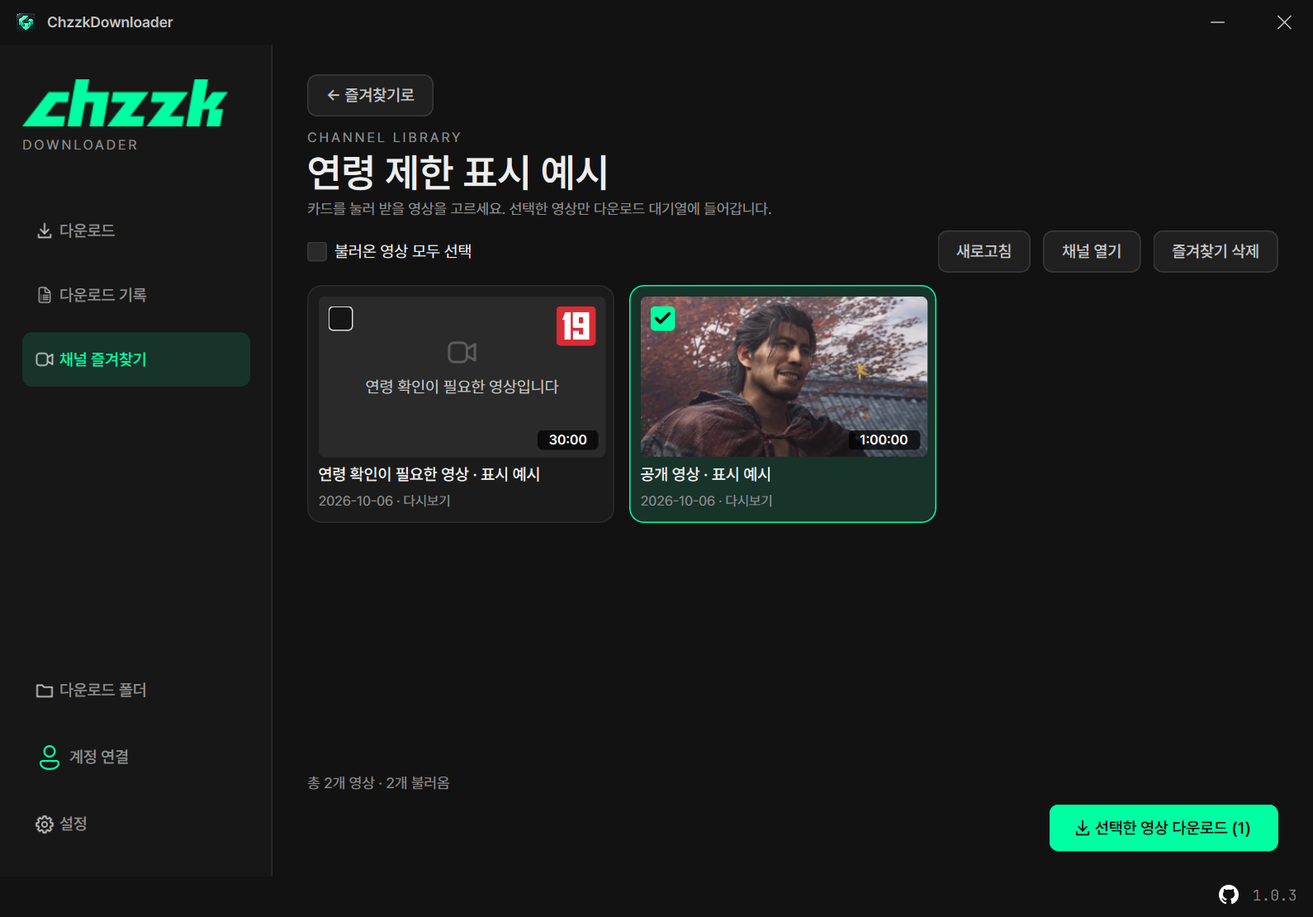
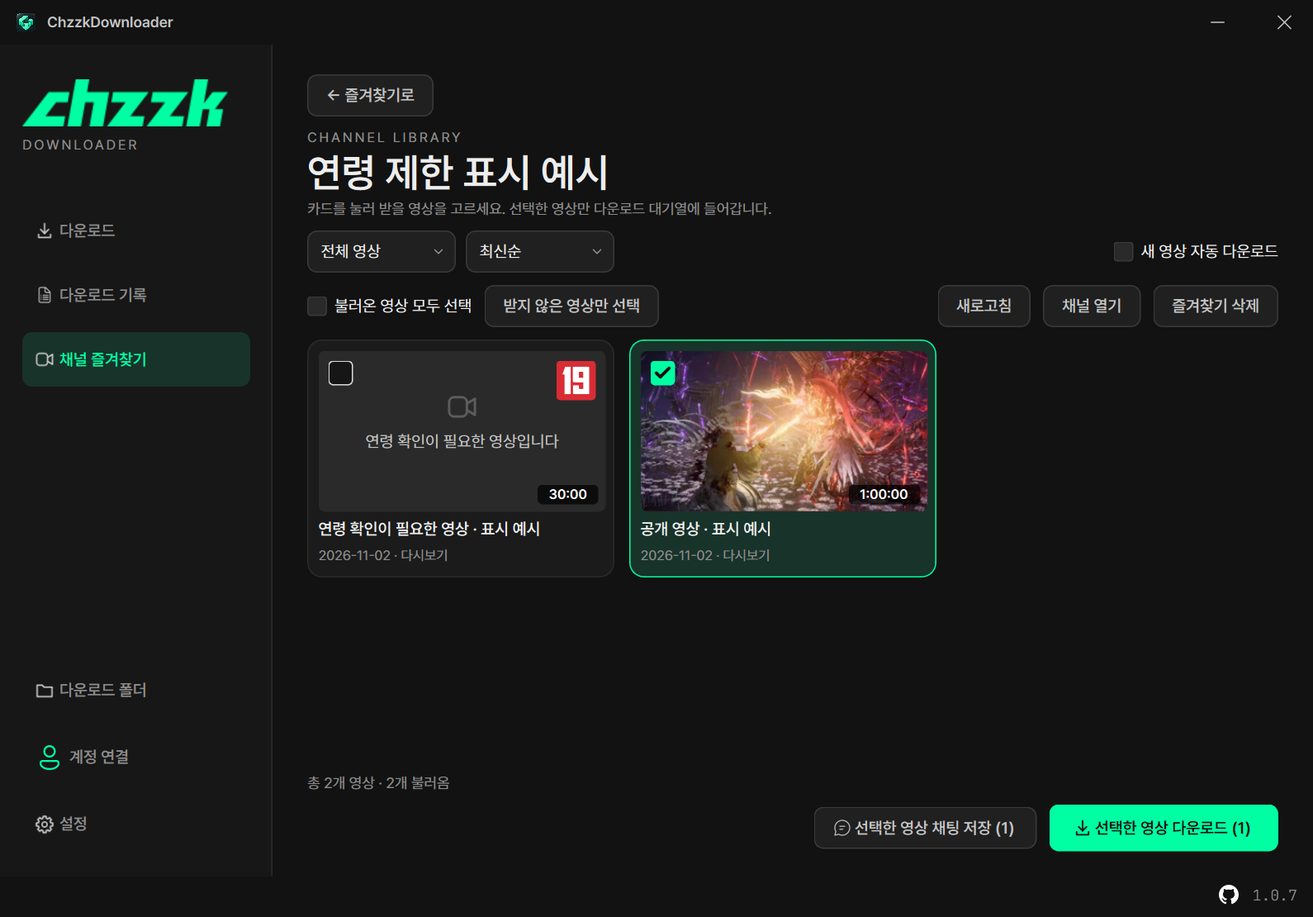
docs: 1.0.7 기능 안내와 스크린샷 최신화

Changed region(s): [[0.2465, 0.245, 0.7704, 0.6432], [0.8013, 0.245, 0.9862, 0.3676], [0.6164, 0.8883, 0.7704, 0.9189]]

diff --git a/docs/index.html b/docs/index.html
@@ -4,7 +4,7 @@
   <meta charset="utf-8">
   <meta name="viewport" content="width=device-width, initial-scale=1">
   <meta name="theme-color" content="#101412">
-  <meta name="description" content="ChzzkDownloader — 치지직 VOD와 클립을 내 폴더에. 치지직·YouTube·TVer 등 영상 주소 분석, 쿠키로 치지직 계정 연결과 팔로잉 가져오기, 대기 목록 복원, 채널 즐겨찾기와 다운로드 기록을 제공하는 Windows 다운로더.">
+  <meta name="description" content="ChzzkDownloader 1.0.7 — 여러 사이트의 영상 다운로드·이어받기, 라이브 녹화, 치지직 다시보기 채팅 저장, 구간 다운로드와 채널 새 영상 알림을 제공하는 Windows 다운로더.">
   <title>ChzzkDownloader — 다시 보고 싶은 순간을, 내 폴더에</title>
   <link rel="icon" href="img/logo.svg" type="image/svg+xml">
   <link rel="stylesheet" href="style.css">
@@ -26,14 +26,14 @@
         <p class="lead">긴 다시보기도, 짧은 클립도.<br>링크를 붙여넣으면 나만의 영상 라이브러리가 시작됩니다.</p>
         <div class="hero-actions"><a class="button primary" href="https://github.com/deuxdoom/ChzzkDownloader/releases/latest" data-download><span class="github-icon" aria-hidden="true"></span>다운로드(.zip) <span aria-hidden="true">↓</span></a><a class="button secondary" href="#preview">화면 살펴보기 <span aria-hidden="true">↘</span></a></div>
         <p class="availability">Windows 데스크톱 · 1.0.7 · 폴더형 포터블 앱</p>
-        <p class="release-note"><code>ChzzkDownloader_v107.zip</code> · 2026-11-02 · 방송이 끊겨 둘로 나뉜 다시보기를 VOD 변환 전에 받을 때 생기던 오류를 수정했습니다.</p>
+        <p class="release-note"><code>ChzzkDownloader_v107.zip</code> · 2026-11-02 · 이어받기·라이브 녹화·다시보기 채팅 저장·구간 다운로드, 파일 이름·속도 제한과 채널 새 영상 확인을 추가했습니다. <a href="https://github.com/deuxdoom/ChzzkDownloader/releases/tag/1.0.7">1.0.7 새 소식 ↗</a></p>
       </div>
       <div class="hero-art" aria-hidden="true"><div class="orbit orbit-one"></div><div class="orbit orbit-two"></div><img src="img/logo.svg" width="256" height="256" alt=""><span class="art-label">KEEP THE MOMENT.</span></div>
     </section>
 
     <section class="guide wrap" id="start" data-chapter aria-labelledby="guide-title">
       <div class="guide-heading"><p class="eyebrow">THREE STEPS. YOUR LIBRARY.</p><h2 id="guide-title">시작하기</h2></div>
-      <ol class="steps"><li><span class="step-number">1</span><div><h3>프로그램 열기</h3><p><code>ChzzkDownloader_v107.zip</code>을 풀고 폴더 구조를 유지한 채 <code>ChzzkDownloader.exe</code>를 실행합니다. <code>lib</code>·<code>bin</code> 폴더는 EXE와 함께 두세요.</p></div></li><li><span class="step-number">2</span><div><h3>저장 위치와 옵션 고르기</h3><p>사이드바 맨 아래 ‘설정’에서 저장 위치·화질·인코딩·동시 다운로드 수를 정합니다. 저장 위치는 다음 실행에도 유지됩니다. 필요하면 같은 화면에서 치지직 계정도 연결하세요.</p></div></li><li><span class="step-number">3</span><div><h3>주소 붙여넣고 다운로드</h3><p>영상 주소를 붙여넣고 ‘다운로드’를 누르세요. 여러 영상은 ‘다중 다운로드’ 창에 한 줄씩 넣습니다. 이번 실행의 완료 영상은 다운로드 목록에서 바로 재생할 수 있습니다.</p></div></li></ol>
+      <ol class="steps"><li><span class="step-number">1</span><div><h3>프로그램 열기</h3><p><code>ChzzkDownloader_v107.zip</code>을 풀고 폴더 구조를 유지한 채 <code>ChzzkDownloader.exe</code>를 실행합니다. <code>lib</code>·<code>bin</code> 폴더는 EXE와 함께 두세요.</p></div></li><li><span class="step-number">2</span><div><h3>저장 위치와 옵션 고르기</h3><p>사이드바 맨 아래 ‘설정’에서 저장 위치·화질·인코딩·파일 이름·채널별 폴더·속도 제한을 정합니다. 저장 위치는 다음 실행에도 유지됩니다. 필요하면 같은 화면에서 치지직 계정도 연결하세요.</p></div></li><li><span class="step-number">3</span><div><h3>주소 붙여넣고 다운로드</h3><p>영상 주소를 붙여넣고 ‘다운로드’를 누르세요. 여러 영상은 ‘다중 다운로드’ 창에 한 줄씩 넣습니다. 필요하면 ‘받을 내용’에서 영상·채팅만·영상 + 채팅을 고르거나 ‘구간만 받기’로 시작·끝을 정하세요.</p></div></li></ol>
     </section>
 
     <section class="story" id="features" data-chapter aria-label="기능 스크롤 소개">
@@ -62,64 +62,85 @@
       <div class="feature-grid">
         <article class="feature"><span class="feature-no">01 / INPUT</span><h3>링크만 있으면 준비 끝.</h3><p>치지직 VOD·클립은 물론 YouTube·인스타그램·TVer 등 어떤 사이트의 영상 주소든 붙여넣으세요. ‘다중 다운로드’ 창에 주소를 한 줄씩 넣어 한 번에 추가하거나, 브라우저에서 끌어놓을 수 있습니다.</p><span class="pill">ANY VIDEO URL</span></article>
         <article class="feature"><span class="feature-no">02 / QUALITY</span><h3>내가 고른 화질과 형식.</h3><p>최고 화질 또는 원하는 해상도 상한을 선택하세요. MP4로 저장합니다. 원본 유지 또는 CPU/NVIDIA NVENC 인코딩, H.264(AVC)/H.265(HEVC)를 선택하세요.</p><span class="pill">MP4 · AVC / HEVC</span></article>
-        <article class="feature"><span class="feature-no">03 / SPEED</span><h3>긴 영상도 차근차근.</h3><p>최대 4개 영상과 영상당 최대 16개 조각을 동시에 다운로드합니다. GB·MB 단위의 전송량과 진행률·속도·남은 시간을 카드에서 확인하세요. 숫자에는 JetBrains Mono를 적용했습니다.</p><span class="pill">PARALLEL DOWNLOADS</span></article>
+        <article class="feature"><span class="feature-no">03 / SPEED</span><h3>인터넷 속도도 나눠 쓰기.</h3><p>최대 4개 영상·영상당 최대 16개 조각을 동시에 받으며, 영상 한 개당 속도 상한을 1~50 MB/s로 정할 수 있습니다. 여러 영상의 합계는 동시 영상 수만큼 늘어날 수 있고, 라이브·구간 다운로드에는 제한이 적용되지 않을 수 있습니다.</p><span class="pill">PARALLEL · RATE LIMIT</span></article>
         <article class="feature"><span class="feature-no">04 / HISTORY</span><h3>완료 영상은 바로 재생.</h3><p>이번 실행의 완료 영상은 다운로드 목록에서 재생하거나 더블클릭하세요. ‘완료 항목 정리’로 숨겨도 영상과 기록은 남습니다. 이전 실행의 작업·실패·취소 항목은 다운로드 기록에서 확인합니다.</p><span class="pill">DOWNLOAD HISTORY</span></article>
-        <article class="feature"><span class="feature-no">05 / CONTROL</span><h3>필요할 때 잠깐 쉬어가기.</h3><p>대기열을 멈추면 진행 중인 영상은 계속 받고 다음 작업의 시작을 기다립니다. 취소·대기·종료 중단 목록은 다시 실행해도 대기로 남고, ‘대기열 계속’을 누르면 이어집니다. 필요 없는 대기 항목은 우클릭 → ‘목록에서 삭제’로 지우고, 실패한 작업은 한 번에 재시도하세요.</p><span class="pill">QUEUE CONTROL</span></article>
-        <article class="feature"><span class="feature-no">06 / YOUR FILES</span><h3>영상은 내 폴더에 바로.</h3><p>영상 제목 그대로 저장하고 같은 이름이 있으면 번호를 붙입니다. 목록 정리와 다운로드 취소에도 이미 완성한 파일은 보존됩니다.</p><span class="pill">LOCAL FIRST</span></article>
+        <article class="feature"><span class="feature-no">05 / RESUME</span><h3>중단한 부분부터 이어받기.</h3><p>취소·실패한 영상은 받은 부분을 보관하고 재시도·같은 주소 추가·재실행 후 대기열 재개 시 이어받습니다. 일시적인 연결 오류는 두 번까지 자동 재시도합니다. 복원된 대기열은 ‘대기열 계속’을 누를 때 시작하며, 라이브·구간 다운로드는 이어받지 않습니다.</p><span class="pill">RESUME · AUTO RETRY</span></article>
+        <article class="feature"><span class="feature-no">06 / YOUR FILES</span><h3>파일 이름도, 폴더도 원하는 대로.</h3><p>제목에 게시 날짜·채널을 넣는 네 가지 파일 이름 규칙과 채널별 폴더를 선택하세요. 날짜는 PC 현지 날짜 기준이며, 같은 이름에는 번호를 붙입니다. 새로 대기열에 넣는 작업부터 적용됩니다.</p><span class="pill">FILE NAMES · CHANNEL FOLDERS</span></article>
         <article class="feature"><span class="feature-no">07 / BACKGROUND</span><h3>트레이에서 이어가기.</h3><p>창을 숨겨도 다운로드는 계속됩니다. 트레이 메뉴에서 대기열을 멈추거나 재개하고, 완료 알림으로 다시 돌아오세요.</p><span class="pill">SYSTEM TRAY</span></article>
         <article class="feature"><span class="feature-no">08 / UPDATES</span><h3>새 버전으로 자연스럽게.</h3><p>새 버전의 추가·변경·수정 내역을 먼저 보여 줍니다. ‘지금 업데이트’를 선택하면 다운로드가 끝난 뒤 같은 프로그램의 독립 업데이트 모드가 배포 파일을 검증하고 프로그램을 교체합니다.</p><span class="pill">INDEPENDENT UPDATER</span></article>
         <article class="feature"><span class="feature-no">09 / ENCODING</span><h3>빠르게, 또는 가볍게.</h3><p>원본 유지가 기본입니다. 변환이 필요할 때 CPU/NVENC와 AVC/HEVC를 선택하세요. 변환 실패·취소 시 다운로드한 원본은 보존합니다.</p><span class="pill">AVC / HEVC</span></article>
-        <article class="feature"><span class="feature-no">10 / FAVORITES</span><h3>즐겨찾는 채널에서 골라 받기.</h3><p>채널명이나 주소로 검색해 즐겨찾기에 저장하세요. 채널 카드를 누르면 VOD를 썸네일·제목·날짜로 확인하고 원하는 영상만 선택해 받을 수 있습니다. 치지직 계정을 연결하면 팔로잉 채널도 자동으로 추가됩니다.</p><span class="pill">CHANNEL FAVORITES</span></article>
+        <article class="feature"><span class="feature-no">10 / FAVORITES</span><h3>받은 영상과 채팅을 한눈에.</h3><p>전체 영상·다시보기·업로드·클립을 골라 최신순·인기순으로 정렬하세요. ‘받음’·‘채팅 받음’·‘영상·채팅 받음’을 구분하고, ‘받지 않은 영상만 선택’으로 아직 안 받은 영상을 고를 수 있습니다.</p><span class="pill">CHANNEL VIEWS · SAVED BADGES</span></article>
         <article class="feature"><span class="feature-no">11 / TOOLS</span><h3>영상 도구도 간편하게.</h3><p>첫 실행에 FFmpeg·ffprobe와 yt-dlp nightly를 받고, 시작할 때마다 확인해 없거나 손상되었으면 자동으로 다시 준비합니다. 작업이 끝난 뒤 설정의 ‘도구 업데이트’를 누르면 바뀌었거나 손상된 도구만 검증해 교체합니다. 이미 최신인 도구는 다시 받지 않습니다.</p><span class="pill">FFMPEG · YT-DLP NIGHTLY</span></article>
-        <article class="feature"><span class="feature-no">12 / DUPLICATES</span><h3>같은 영상은 한 번 더 확인.</h3><p>완료 기록과 같은 영상 주소를 다시 넣으면 중복 다운로드 안내를 보여 줍니다. ‘다시 다운로드’를 선택한 영상만 새로 추가합니다.</p><span class="pill">DOWNLOAD CONFIRMATION</span></article>
+        <article class="feature"><span class="feature-no">12 / DUPLICATES</span><h3>주소가 달라도 같은 영상이면.</h3><p>공유 주소·모바일 주소처럼 형태가 달라도 같은 영상이면 다시 받을지 확인합니다. 기록 화면의 최근 500개 밖에 있는 영상도 기억하며, 대기·진행 중인 영상은 중복 추가하지 않습니다.</p><span class="pill">VIDEO IDENTITY CHECK</span></article>
         <article class="feature"><span class="feature-no">13 / LOGS</span><h3>필요한 로그만 펼쳐 보기.</h3><p>‘완료 항목 정리’ 오른쪽의 로그 버튼으로 열고 닫습니다. 카드 선택이나 작업 필터로 원하는 로그만 확인하며, 스크롤바 때문에 버튼과 카드가 좌우로 밀리지 않습니다.</p><span class="pill">JOB LOG FILTER</span></article>
         <article class="feature"><span class="feature-no">14 / ACCOUNT</span><h3>치지직 계정은 쿠키로 연결.</h3><p>평소 브라우저에서 내보낸 cookies.txt를 가져오면 아이디·비밀번호 입력 없이 계정을 연결합니다. 로그인 쿠키 두 개만 내 PC에 암호화 저장하고 다시 실행해도 유지합니다. 본인·성인 인증된 계정이라면 그 계정의 시청 권한으로 19세 영상도 받을 수 있습니다.</p><span class="pill">COOKIES.TXT LOGIN</span></article>
         <article class="feature"><span class="feature-no">15 / PROFILES</span><h3>여러 계정도 프로필로.</h3><p>다른 계정의 쿠키를 가져오면 프로필로 추가합니다. 설정 위의 프로필 사진·이름에서 계정을 전환하고, 팔로잉 채널은 즐겨찾기에 자동으로 추가합니다. 즐겨찾기와 순서는 계정마다 따로 유지합니다.</p><span class="pill">MULTI PROFILES</span></article>
+        <article class="feature"><span class="feature-no">16 / CHAT</span><h3>채팅도 함께 보관하기.</h3><p>치지직 다시보기의 채팅을 오프라인 HTML 한 파일로 저장하세요. 닉네임을 누르면 그 사용자의 채팅만 보고, 검색·사용자별 요약에서 구독·후원·가림 상태를 확인할 수 있습니다. 닉네임을 바꿔도 같은 사용자 ID로 모입니다.</p><span class="pill">VOD CHAT · OFFLINE HTML</span></article>
+        <article class="feature"><span class="feature-no">17 / SECTIONS</span><h3>긴 영상에서 필요한 구간만.</h3><p>주소를 넣기 전에 ‘구간만 받기’를 켜고 시작·끝을 입력하세요. 끝을 비우면 영상 끝까지 받습니다. 재인코딩 없이 잘라 몇 초 차이가 날 수 있으며, 채널 화면의 일괄 선택에는 적용되지 않습니다.</p><span class="pill">START · END</span></article>
+        <article class="feature"><span class="feature-no">18 / LIVE</span><h3>라이브는 녹화하고, 중지하면 저장.</h3><p>라이브 방송 주소를 넣어 녹화하세요. 경과 시간·녹화 크기·남은 공간으로 녹화 가능한 시간을 표시하고, 중지·연결 끊김·남은 공간 1GB 미만일 때 지금까지의 녹화를 저장합니다.</p><span class="pill">LIVE RECORDING</span></article>
+        <article class="feature"><span class="feature-no">19 / NEW VIDEOS</span><h3>즐겨찾는 채널의 새 소식.</h3><p>설정에서 새 영상 확인을 켜면 30분마다 확인해 배지와 트레이로 알립니다. ‘새 영상 자동 다운로드’를 켠 채널은 이미 받은 영상을 건너뛰고 새 영상만 대기열에 넣습니다. 처음 확인한 기존 영상은 알리지 않습니다.</p><span class="pill">NOTIFY · AUTO DOWNLOAD</span></article>
+        <article class="feature"><span class="feature-no">20 / SPACE &amp; ERRORS</span><h3>받기 전에 공간부터.</h3><p>영상 크기를 알 수 있으면 동시에 받는 영상이 쓸 공간까지 계산해 부족할 때 전송 전에 알려 줍니다. 실패하면 원인과 다음 조치를 한국어로 안내하고, 카드의 상태 문구에 마우스를 올리면 전체 원문도 확인할 수 있습니다.</p><span class="pill">SPACE CHECK · ERROR GUIDANCE</span></article>
+        <article class="feature"><span class="feature-no">21 / CACHE</span><h3>미리보기 캐시도 가볍게.</h3><p>설정에서 썸네일 캐시 사용량을 확인하고 비울 수 있습니다. 프로그램을 시작하면 기록에 더 이상 없는 영상의 캐시는 자동으로 정리하며, 저장한 영상과 다운로드 기록은 유지합니다.</p><span class="pill">THUMBNAIL CACHE</span></article>
       </div>
     </section>
 
     <section class="preview wrap" id="preview" data-chapter aria-labelledby="preview-title">
-      <div class="preview-top"><div><p class="eyebrow">A CALMER WAY TO DOWNLOAD</p><h2 id="preview-title">필요한 것만, 한눈에.</h2></div><span class="version-tag">ChzzkDownloader 1.0.3</span></div>
+      <div class="preview-top"><div><p class="eyebrow">A CALMER WAY TO DOWNLOAD</p><h2 id="preview-title">필요한 것만, 한눈에.</h2></div><span class="version-tag">ChzzkDownloader 1.0.7</span></div>
       <div class="screen"><img src="img/app-download.png" width="1590" height="1110" alt="ChzzkDownloader의 다운로드 화면. 왼쪽 사이드바에 다운로드·다운로드 기록·채널 즐겨찾기와 맨 아래 다운로드 폴더·계정 연결·설정, 오른쪽에 주소 입력·다중 다운로드 버튼과 위에서부터 대기·다운로드 중·완료 영상 카드가 보입니다. 완료 카드는 재생할 수 있습니다." fetchpriority="high"></div>
-      <p class="caption">실제 1.0.3 앱 인터페이스 · 영상과 진행 상태는 소개용 예시입니다. 메인 창 오른쪽 아래의 흰색 GitHub 아이콘만 저장소 링크이며, 버전 숫자는 일반 표시입니다.</p>
+      <p class="caption">실제 1.0.7 배포 EXE 화면 · 영상 정보는 현재 공개 목록에서 가져왔고, 다운로드·저장 상태는 소개용 예시입니다. 메인 창 오른쪽 아래의 흰색 GitHub 아이콘만 저장소 링크이며, 버전 숫자는 일반 표시입니다.</p>
+    </section>
+
+    <section class="settings wrap" aria-labelledby="section-title">
+      <div class="settings-copy"><p class="eyebrow">VIDEO. CHAT. JUST THE PART YOU NEED.</p><h2 id="section-title">영상도, 채팅도.<br>필요한 방식으로.</h2><p>다운로드 화면의 ‘받을 내용’에서 영상·채팅만·영상 + 채팅을 선택하세요. 치지직 다시보기 채팅은 오프라인 HTML 한 파일로 저장되며 닉네임을 누르면 그 사용자의 채팅만 볼 수 있습니다. 닉네임 옆 ↗는 채널을 열고, 검색창에는 채널 주소나 ID도 넣을 수 있습니다.</p><p>‘구간만 받기’를 켜고 시작·끝을 입력하면 주소 입력·다중 다운로드에 적용됩니다. 한 번 추가하면 체크가 풀리고, 끝을 비우면 영상 끝까지 받습니다. 영상 + 채팅에서는 영상만 잘라 받고 채팅은 전체를 저장합니다.</p><p class="muted">실제 1.0.7 화면 · 작업과 진행 상태는 소개용 예시입니다. 채팅은 치지직 다시보기만 지원하며 라이브·클립·다른 사이트의 채팅은 받을 수 없습니다. 구간은 재인코딩 없이 잘라 몇 초 차이가 날 수 있습니다.</p></div>
+      <div class="settings-screen"><img src="img/app-input.png" width="1590" height="1110" loading="lazy" alt="구간만 받기에서 1:00:00~1:30:00과 받을 내용에서 영상 + 채팅을 선택한 1.0.7 화면."></div>
+    </section>
+
+    <section class="settings wrap" aria-labelledby="live-title">
+      <div class="settings-copy"><p class="eyebrow">RECORD NOW. KEEP IT LATER.</p><h2 id="live-title">라이브를 녹화하고,<br>중지하면 저장.</h2><p>방송 주소를 넣으면 그 시점부터 녹화합니다. 동시 다운로드 수에 포함되지 않아 다른 영상을 함께 받을 수 있고, 카드에 경과 시간·녹화 크기와 남은 공간으로 더 녹화할 수 있는 시간을 표시합니다. 중지하거나 연결이 끊기면 지금까지 녹화한 부분을 MP4로 저장합니다.</p><p class="muted">실제 1.0.7 화면 · 녹화 상태·용량·남은 시간은 소개용 예시입니다. 1080p60 기준 시간당 약 3.8GB, 10시간 약 38GB가 필요하며 화질에 따라 달라집니다. MP4 정리에는 녹화 크기만큼 여유 공간이 더 필요합니다. 남은 공간이 1GB 아래로 줄면 멈추고 저장하며, 정리할 공간이 없거나 MP4 변환에 실패하면 TS로 보존합니다. 재실행 복원·이어받기는 하지 않습니다.</p></div>
+      <div class="settings-screen"><img src="img/app-live.png" width="1590" height="1110" loading="lazy" alt="라이브 녹화 중 경과 시간·녹화 용량·남은 공간으로 더 녹화할 수 있는 시간을 보여 주는 예시."></div>
+    </section>
+
+    <section class="settings wrap" aria-labelledby="watch-title">
+      <div class="settings-copy"><p class="eyebrow">NEW VIDEOS. LESS CHECKING.</p><h2 id="watch-title">새 영상은 알려 주고,<br>캐시는 가볍게.</h2><p>‘설정 → 프로그램 동작 → 즐겨찾기 채널의 새 영상을 30분마다 확인’을 켜면 새 영상 개수와 트레이 알림을 받을 수 있습니다. 자동으로 받을 채널은 채널 화면의 ‘새 영상 자동 다운로드’도 켜세요. 이미 받은 영상은 건너뛰고 새 영상만 대기열에 추가합니다.</p><p>같은 설정 카드에서 썸네일 캐시 사용량을 확인하거나 ‘캐시 비우기’를 누를 수 있습니다. 기록과 영상 파일은 유지되며, 시작할 때 기록에 더 이상 없는 영상의 캐시도 자동 정리합니다.</p><p class="muted">새 영상 확인은 기본 꺼짐입니다. 처음 확인한 기존 영상은 알리거나 자동으로 받지 않습니다. 설정을 켜면 시작 1분 뒤부터 확인하고 이후 30분마다 확인합니다.</p></div>
+      <div class="settings-screen"><img src="img/app-settings-behavior.png" width="1590" height="1110" loading="lazy" alt="즐겨찾기 채널 새 영상 확인과 썸네일 캐시 사용량·캐시 비우기, 프로그램·도구 업데이트 설정."></div>
     </section>
 
     <section class="settings wrap" id="multi-download" aria-labelledby="multi-title">
-      <div class="settings-copy"><p class="eyebrow">MORE LINKS. ONE LIST.</p><h2 id="multi-title">여러 영상도,<br>한 줄씩 간단하게.</h2><p>다운로드 화면의 ‘다중 다운로드’를 누르고 주소를 한 줄에 하나씩 넣으세요. 주소 개수를 확인한 뒤 ‘다운로드 (개수)’를 누르면 입력한 순서대로 목록에 추가됩니다.</p><p class="muted">입력 안의 중복 주소와 주소가 아닌 줄은 건너뜁니다. 완료 기록과 같은 영상은 다시 다운로드할지 먼저 확인합니다. TVer는 일본 VPN에 연결한 뒤 받아야 하며 다운로드가 끝날 때까지 연결을 유지하세요.</p></div>
+      <div class="settings-copy"><p class="eyebrow">MORE LINKS. ONE LIST.</p><h2 id="multi-title">여러 영상도,<br>한 줄씩 간단하게.</h2><p>다운로드 화면의 ‘다중 다운로드’를 누르고 주소를 한 줄에 하나씩 넣으세요. 주소 개수를 확인한 뒤 ‘다운로드 (개수)’를 누르면 입력한 순서대로 목록에 추가됩니다.</p><p class="muted">입력 안의 중복 주소와 주소가 아닌 줄은 건너뜁니다. 이미 받은 영상은 주소 형태가 달라도 다시 다운로드할지 먼저 확인합니다. TVer는 일본 VPN에 연결한 뒤 받아야 하며 다운로드가 끝날 때까지 연결을 유지하세요.</p></div>
       <div class="settings-screen"><img src="img/app-multi.png" width="960" height="662" loading="lazy" alt="다중 다운로드 창. 여러 사이트의 영상 주소를 한 줄씩 입력하고 주소 개수와 다운로드 버튼을 확인합니다."></div>
     </section>
 
     <section class="settings wrap" id="settings" aria-labelledby="settings-title">
-      <div class="settings-copy"><p class="eyebrow">SET IT ONCE.</p><h2 id="settings-title">취향에 맞춰 두면,<br>그다음은 붙여넣기.</h2><p>사이드바 맨 아래의 ‘설정’에서 저장·다운로드, 치지직 계정, 영상 변환, 프로그램 동작, 업데이트 카드에서 필요한 항목을 정하세요. 저장 위치를 바꾸면 다음 실행에도 유지됩니다. 첫 실행에 FFmpeg·ffprobe와 yt-dlp nightly를 받고 시작할 때마다 확인해 없거나 손상된 도구를 자동 준비하며, ‘도구 업데이트’는 최신 도구를 다시 받지 않고 필요한 도구만 교체합니다. 창 크기는 해상도와 Windows 배율에 맞춰 자동으로 정해지고, 작은 화면에서는 설정 내용을 스크롤로 볼 수 있습니다.</p><p class="muted">기존 yt-dlp 지원 사이트도 함께 사용할 수 있습니다. 사이트의 변경이나 계정 접근 조건에 따라 다운로드 가능 여부가 달라질 수 있습니다.</p></div>
-      <div class="settings-screen"><img src="img/app-settings.png" width="1590" height="1110" loading="lazy" alt="설정 화면. 저장 위치·화질·동시 영상과 조각 수를 정하는 저장·다운로드 카드와, 쿠키 파일 가져오기·팔로잉 다시 가져오기·저장 정보 삭제 버튼이 있는 치지직 계정 카드가 보입니다."></div>
+      <div class="settings-copy"><p class="eyebrow">SET IT ONCE.</p><h2 id="settings-title">취향에 맞춰 두면,<br>그다음은 붙여넣기.</h2><p>사이드바 맨 아래의 ‘설정’에서 저장·다운로드, 치지직 계정, 영상 변환, 프로그램 동작, 업데이트 카드에서 필요한 항목을 정하세요. 저장 위치를 바꾸면 다음 실행에도 유지됩니다. 첫 실행에 FFmpeg·ffprobe와 yt-dlp nightly를 받고 시작할 때마다 확인해 없거나 손상된 도구를 자동 준비하며, ‘도구 업데이트’는 최신 도구를 다시 받지 않고 필요한 도구만 교체합니다. 창 크기는 해상도와 Windows 배율에 맞춰 자동으로 정해지고, 작은 화면에서는 설정 내용을 스크롤로 볼 수 있습니다.</p><p>파일 이름에 게시 날짜·채널을 넣거나 채널별 폴더에 저장하고, 영상 한 개당 속도 상한을 정할 수 있습니다. 아래쪽 ‘프로그램 동작’에는 30분마다 새 영상 확인과 썸네일 캐시 비우기가 있습니다.</p><p class="muted">기존 yt-dlp 지원 사이트도 함께 사용할 수 있습니다. 사이트의 변경이나 계정 접근 조건에 따라 다운로드 가능 여부가 달라질 수 있습니다.</p></div>
+      <div class="settings-screen"><img src="img/app-settings.png" width="1590" height="1110" loading="lazy" alt="1.0.7 설정 화면. 저장 위치·화질·파일 이름 규칙·채널별 폴더·동시 영상과 조각 수·속도 제한과 치지직 계정 카드가 보입니다."></div>
     </section>
 
     <section class="channels wrap" id="channels" data-chapter aria-labelledby="channels-title">
       <div class="channels-head"><div><p class="eyebrow">YOUR CHANNELS. YOUR PICKS.</p><h2 id="channels-title">좋아하는 채널은,<br>카드 한 장으로.</h2></div><p>‘채널 즐겨찾기’에서 채널명이나 주소로 찾아 ‘추가’를 누르세요. 저장한 카드를 누르면 그 채널의 VOD가 썸네일·제목·날짜와 함께 펼쳐지고, 원하는 영상만 골라 바로 받을 수 있습니다. 치지직 계정을 연결하면 팔로잉 채널이 자동으로 추가되며, 카드는 드래그로 순서를 바꿀 수 있습니다.</p></div>
       <div class="channel-shots">
         <figure><div class="settings-screen"><img src="img/app-favorites.png" width="1590" height="1110" loading="lazy" alt="채널 즐겨찾기 화면. 위쪽에 채널명·주소 검색과 오른쪽에 ‘추가’ 버튼이 있는 결과 카드, 아래쪽에 아바타와 채널명이 있는 저장한 채널 카드 여섯 개가 있습니다."></div><figcaption>검색하고, 추가하고, 카드로 모아 두기</figcaption></figure>
-        <figure><div class="settings-screen"><img src="img/app-channel.png" width="1590" height="1110" loading="lazy" alt="채널 VOD 화면. 채널 아바타와 이름 아래에 썸네일·재생 시간·제목·게시일이 있는 VOD 카드가 격자로 놓이고, 선택한 두 카드가 민트색으로 표시됩니다."></div><figcaption>썸네일로 고르고, 선택한 영상만 다운로드</figcaption></figure>
+        <figure><div class="settings-screen"><img src="img/app-channel.png" width="1590" height="1110" loading="lazy" alt="1.0.7 채널 화면. 보기·정렬·새 영상 자동 다운로드, 받음·채팅 받음·영상과 채팅 받음 배지와 선택한 영상 채팅 저장 버튼이 보입니다."></div><figcaption>영상·채팅 저장 여부를 확인하고 필요한 항목만 선택</figcaption></figure>
       </div>
-      <p class="caption">실제 앱 인터페이스 · 채널과 VOD 정보는 공개 목록 예시이며, 작업 상태는 화면 소개를 위한 예시입니다.</p>
+      <p>채널 화면에서 전체 영상·다시보기·업로드·클립과 최신순·인기순을 고를 수 있습니다. ‘받지 않은 영상만 선택’은 채팅만 저장한 영상도 선택하며, ‘선택한 영상 채팅 저장’은 클립을 제외한 다시보기에 사용합니다.</p><p class="caption">실제 1.0.7 앱 화면 · 채널·영상 정보는 현재 공개 목록의 일부이며, 새 영상 개수와 영상·채팅 저장 배지는 소개용 예시입니다.</p>
     </section>
 
     <section class="settings wrap" id="account" data-chapter aria-labelledby="account-title">
-      <div class="settings-copy"><p class="eyebrow">YOUR ACCOUNT. YOUR LIST.</p><h2 id="account-title">계정을 연결하면,<br>팔로잉도 그대로.</h2><p>평소 브라우저에서 치지직에 로그인한 뒤 내보낸 cookies.txt를 ‘설정 → 치지직 계정 → 쿠키 파일 가져오기’에서 연결하세요. 아이디·비밀번호 입력 없이 로그인을 확인하고, 팔로잉 채널을 즐겨찾기에 자동으로 추가합니다. 여러 계정을 저장하면 설정 위의 프로필 사진·이름에서 전환할 수 있고, 즐겨찾기와 순서는 계정마다 따로 유지합니다.</p><p class="muted">실제 1.0.3 화면 · 계정 이름과 사진은 소개용 예시입니다. 19세 영상은 본인·성인 인증된 계정의 시청 권한이 있어야 받을 수 있습니다.</p></div>
+      <div class="settings-copy"><p class="eyebrow">YOUR ACCOUNT. YOUR LIST.</p><h2 id="account-title">계정을 연결하면,<br>팔로잉도 그대로.</h2><p>평소 브라우저에서 치지직에 로그인한 뒤 내보낸 cookies.txt를 ‘설정 → 치지직 계정 → 쿠키 파일 가져오기’에서 연결하세요. 아이디·비밀번호 입력 없이 로그인을 확인하고, 팔로잉 채널을 즐겨찾기에 자동으로 추가합니다. 여러 계정을 저장하면 설정 위의 프로필 사진·이름에서 전환할 수 있고, 즐겨찾기와 순서는 계정마다 따로 유지합니다.</p><p class="muted">실제 1.0.7 화면 · 계정 이름과 사진은 소개용 예시입니다. 19세 영상은 본인·성인 인증된 계정의 시청 권한이 있어야 받을 수 있습니다.</p></div>
       <div class="settings-screen"><img src="img/app-account.png" width="1590" height="1110" loading="lazy" alt="설정 위 프로필 버튼에서 연 계정 메뉴. ‘저장된 계정’ 제목 아래에 현재 표시가 붙은 예시 계정과 두 번째 예시 계정, 치지직 채널 열기·로그아웃·새 계정 추가 항목이 있고, 오른쪽에 치지직 계정 설정 카드가 보입니다."></div>
     </section>
 
     <section class="settings wrap" id="cookie" aria-labelledby="cookie-title">
-      <div class="settings-copy"><p class="eyebrow">STAYS ON YOUR PC.</p><h2 id="cookie-title">로그인 쿠키는,<br>내 PC에만.</h2><p>연결 창에서 저장에 동의한 뒤 <code>chzzk.naver.com_cookies.txt</code>를 선택하고 ‘가져오고 연결’을 누르세요. 파일에서 NID_AUT·NID_SES 두 쿠키만 골라 Windows 사용자 계정에 묶어 암호화 저장하며, 개발자나 별도 수집 서버로 전송하지 않습니다. 인증 쿠키는 네이버·치지직 인증과 영상 조회에 전달됩니다.</p><p class="muted">실제 1.0.3 화면 · 가져온 쿠키 파일은 암호화되지 않으며 프로그램이 수정·삭제하지 않으므로, 연결 후 필요 없으면 직접 삭제하세요. 쿠키가 만료되면 다시 가져와야 하며 영구 로그인을 보장하지 않습니다.</p></div>
+      <div class="settings-copy"><p class="eyebrow">STAYS ON YOUR PC.</p><h2 id="cookie-title">로그인 쿠키는,<br>내 PC에만.</h2><p>연결 창에서 저장에 동의한 뒤 <code>chzzk.naver.com_cookies.txt</code>를 선택하고 ‘가져오고 연결’을 누르세요. 파일에서 NID_AUT·NID_SES 두 쿠키만 골라 Windows 사용자 계정에 묶어 암호화 저장하며, 개발자나 별도 수집 서버로 전송하지 않습니다. 인증 쿠키는 네이버·치지직 인증과 영상 조회에 전달됩니다.</p><p class="muted">실제 1.0.7 화면 · 가져온 쿠키 파일은 암호화되지 않으며 프로그램이 수정·삭제하지 않으므로, 연결 후 필요 없으면 직접 삭제하세요. 쿠키가 만료되면 다시 가져와야 하며 영구 로그인을 보장하지 않습니다.</p></div>
       <div class="settings-screen cookie-screen"><img src="img/app-cookie.png" width="840" height="1170" loading="lazy" alt="브라우저 쿠키로 치지직 계정 연결 창. 내 PC에만 암호화 저장한다는 안내, 확장 프로그램의 첫 번째 Export 버튼을 가리키는 안내 이미지, 저장 동의 체크와 파일 선택·가져오고 연결 버튼이 보입니다."></div>
     </section>
 
     <section class="settings wrap" id="tools" aria-labelledby="tools-title">
-      <div class="settings-copy"><p class="eyebrow">READY AT A GLANCE.</p><h2 id="tools-title">도구 준비도,<br>하단에서 한눈에.</h2><p>어느 탭에 있든 하단 상태바에서 도구 확인·다운로드·설치 상황을 확인할 수 있습니다. 다운로드 진행률은 민트색으로 표시하며, 완료 안내는 5초 뒤 서서히 사라집니다.</p><p class="muted">실제 1.0.3 화면 · 도구 다운로드 55%는 소개용 예시입니다.</p></div>
-      <div class="settings-screen"><img src="img/app-tools.png" width="1590" height="1110" loading="lazy" alt="모든 탭에 표시되는 메인 창 하단 도구 다운로드 상태와 55% 진행률, 오른쪽 아래 GitHub 아이콘과 버전 1.0.3 예시."></div>
+      <div class="settings-copy"><p class="eyebrow">READY AT A GLANCE.</p><h2 id="tools-title">도구 준비도,<br>하단에서 한눈에.</h2><p>어느 탭에 있든 하단 상태바에서 도구 확인·다운로드·설치 상황을 확인할 수 있습니다. 다운로드 진행률은 민트색으로 표시하며, 완료 안내는 5초 뒤 서서히 사라집니다.</p><p class="muted">실제 1.0.7 화면 · 도구 다운로드 55%는 소개용 예시입니다.</p></div>
+      <div class="settings-screen"><img src="img/app-tools.png" width="1590" height="1110" loading="lazy" alt="모든 탭에 표시되는 메인 창 하단 도구 다운로드 상태와 55% 진행률, 오른쪽 아래 GitHub 아이콘과 버전 1.0.7 예시."></div>
     </section>
 
     <section class="settings wrap" id="age-rating" aria-labelledby="age-title">
-      <div class="settings-copy"><p class="eyebrow">KNOW BEFORE YOU PICK.</p><h2 id="age-title">연령 제한은,<br>썸네일에서 확인.</h2><p>연령 확인이 필요한 치지직 영상은 썸네일 오른쪽 위의 빨간색 19세 배지로 구분합니다. 본인·성인 인증된 치지직 계정을 연결하면 그 계정의 시청 권한으로 받을 수 있습니다. 공개 영상과 지역 제한만 있는 영상에는 이 배지를 표시하지 않습니다.</p><p class="muted">실제 1.0.3 화면 · 영상과 제한 상태는 소개용 예시입니다. 인증·시청 권한이 없는 계정으로는 받을 수 없습니다.</p></div>
+      <div class="settings-copy"><p class="eyebrow">KNOW BEFORE YOU PICK.</p><h2 id="age-title">연령 제한은,<br>썸네일에서 확인.</h2><p>연령 확인이 필요한 치지직 영상은 썸네일 오른쪽 위의 빨간색 19세 배지로 구분합니다. 본인·성인 인증된 치지직 계정을 연결하면 그 계정의 시청 권한으로 받을 수 있습니다. 공개 영상과 지역 제한만 있는 영상에는 이 배지를 표시하지 않습니다.</p><p class="muted">실제 1.0.7 화면 · 영상과 제한 상태는 소개용 예시입니다. 인증·시청 권한이 없는 계정으로는 받을 수 없습니다.</p></div>
       <div class="settings-screen"><img src="img/app-channel-age.png" width="1590" height="1110" loading="lazy" alt="연령 제한 표시 예시 채널의 썸네일 오른쪽 위에 표시한 빨간색 19세 배지와 배지가 없는 공개 영상 카드."></div>
     </section>
 
@@ -128,7 +149,7 @@
       <div class="settings-screen update-screen"><img src="img/app-update.png" width="960" height="900" loading="lazy" alt="업데이트 창. 새 버전 파일을 내려받는 진행률과 상태, 릴리스 내역, 저장한 영상·기록·설정은 그대로 이어진다는 안내가 보입니다."></div>
     </section>
 
-    <section class="faq wrap" id="faq" data-chapter aria-labelledby="faq-title"><h2 id="faq-title">궁금한 점이 있다면.</h2><details><summary>어떤 주소를 입력하나요?</summary><p>영상이 있는 페이지의 주소라면 사이트를 가리지 않고 분석해 받습니다. 치지직은 <code>https://chzzk.naver.com/video/번호</code> VOD 주소나 <code>https://chzzk.naver.com/clips/ID</code> 클립 주소, 그 밖에 YouTube(쇼츠)·인스타그램 릴스 등의 개별 영상 주소를 입력하세요. 여러 주소는 ‘다중 다운로드’ 창에 한 줄씩 넣으세요. 채널에서 고르려면 ‘채널 즐겨찾기’에 저장한 뒤 VOD 카드를 선택하세요.</p></details><details><summary>채널 즐겨찾기는 어떻게 쓰나요?</summary><p>채널명 또는 <code>https://chzzk.naver.com/채널ID</code> 주소로 검색해 결과 카드의 ‘추가’를 누릅니다. 저장한 카드를 누르면 VOD가 썸네일·제목·날짜 카드로 표시되고, 카드를 눌러 선택한 영상만 다운로드합니다. 치지직 계정을 연결하면 팔로잉 채널이 자동으로 추가되고, 즐겨찾기는 계정마다 따로 보관합니다.</p></details><details><summary>TVer 영상은 어떻게 받나요?</summary><p>TVer의 개별 에피소드 주소를 넣으세요. 일본 VPN에 연결해야 하며 다운로드가 끝날 때까지 유지해야 합니다.</p></details><details><summary>취소·대기 목록은 다시 실행하면 어떻게 되나요?</summary><p>대기 상태로 복원되며 자동으로 시작하지 않습니다. ‘대기열 계속’을 누르면 저장한 위치와 옵션으로 시작합니다. 필요 없는 대기 항목은 다운로드 목록에서 우클릭해 ‘목록에서 삭제’를 누르면 다시 복원하지 않으며, 기록과 영상 파일은 유지합니다. 완료 기록과 같은 영상을 추가하면 다시 다운로드할지 확인합니다.</p></details><details><summary>로그인이 필요한 영상도 받을 수 있나요?</summary><p>치지직 계정을 연결하면 받을 수 있습니다. 19세 영상은 본인·성인 인증된 네이버 계정이, 구독자 영상 등은 그 계정의 시청 권한이 필요합니다. 인증이나 시청 권한이 없는 영상은 받을 수 없습니다.</p></details><details><summary>치지직 계정은 어떻게 연결하나요?</summary><p>평소 브라우저에 Get cookies.txt LOCALLY를 설치하고 치지직에 로그인한 뒤 메인 화면 <code>https://chzzk.naver.com/</code>을 엽니다. 주소창 옆의 확장 프로그램 아이콘을 눌러 왼쪽 첫 번째 Export 버튼으로 <code>chzzk.naver.com_cookies.txt</code>를 저장하세요. 앱의 ‘설정 → 치지직 계정 → 쿠키 파일 가져오기’에서 저장에 동의하고 이 파일을 선택한 뒤 ‘가져오고 연결’을 누릅니다. 아이디·비밀번호 입력은 필요 없습니다.</p></details><details><summary>로그인 쿠키는 어디에 저장되나요?</summary><p>EXE 옆 <code>.auth</code> 폴더에 현재 Windows 사용자 계정에 묶어 암호화 저장합니다. 개발자나 별도 수집 서버로 전송하지 않으며, 인증 쿠키는 네이버·치지직 인증과 영상 조회에 전달됩니다. 다른 PC·Windows 계정에서는 쓸 수 없고, 쿠키가 만료되거나 네이버가 로그인을 해제하면 다시 가져와야 합니다. 로그아웃하면 현재 계정의 쿠키만 삭제합니다.</p></details><details><summary>여러 계정을 쓸 수 있나요?</summary><p>다른 계정의 쿠키를 가져오면 프로필로 추가되고, 같은 계정은 쿠키를 갱신합니다. 설정 위의 프로필 사진·이름을 눌러 계정을 전환하고, ‘새 계정 추가’로 연결 창을 바로 열 수 있습니다. 즐겨찾기와 순서는 계정마다 따로 유지하며, 로그아웃해도 목록은 남습니다.</p></details><details><summary>일시정지를 누르면 받던 영상도 멈추나요?</summary><p>대기열 일시정지는 새로운 영상의 시작을 멈춥니다. 진행 중인 영상은 계속 다운로드하며, 해당 영상의 취소 버튼으로 중단할 수 있습니다.</p></details><details><summary>기록을 정리하면 영상도 지워지나요?</summary><p>다운로드 기록에서 해당 항목과 미리보기 캐시만 제거합니다. 저장 폴더의 영상 파일은 유지됩니다.</p></details></section>
+    <section class="faq wrap" id="faq" data-chapter aria-labelledby="faq-title"><h2 id="faq-title">궁금한 점이 있다면.</h2><details><summary>어떤 주소를 입력하나요?</summary><p>영상이 있는 페이지의 주소라면 사이트를 가리지 않고 분석해 받습니다. 치지직은 <code>https://chzzk.naver.com/video/번호</code> VOD 주소나 <code>https://chzzk.naver.com/clips/ID</code> 클립 주소, 그 밖에 YouTube(쇼츠)·인스타그램 릴스 등의 개별 영상 주소를 입력하세요. 여러 주소는 ‘다중 다운로드’ 창에 한 줄씩 넣으세요. 채널에서 고르려면 ‘채널 즐겨찾기’에 저장한 뒤 VOD 카드를 선택하세요.</p></details><details><summary>채널 즐겨찾기는 어떻게 쓰나요?</summary><p>채널명 또는 <code>https://chzzk.naver.com/채널ID</code> 주소로 검색해 결과 카드의 ‘추가’를 누릅니다. 저장한 카드를 누르면 VOD가 썸네일·제목·날짜 카드로 표시되고, 카드를 눌러 선택한 영상만 다운로드합니다. 치지직 계정을 연결하면 팔로잉 채널이 자동으로 추가되고, 즐겨찾기는 계정마다 따로 보관합니다.</p></details><details><summary>채팅만 저장할 수 있나요?</summary><p>치지직 다시보기 주소를 넣고 ‘받을 내용 → 채팅만’을 선택하거나, 채널 화면에서 ‘선택한 영상 채팅 저장’을 누르세요. 저장한 HTML은 인터넷 연결 없이 열고 검색·사용자별 채팅·구독·후원·가림 상태를 볼 수 있습니다. 팔로우 여부는 제공되지 않습니다. 라이브·클립·다른 사이트의 채팅은 대상이 아니며, 제한된 다시보기는 연결한 계정의 시청 권한이 필요합니다.</p></details><details><summary>TVer 영상은 어떻게 받나요?</summary><p>TVer의 개별 에피소드 주소를 넣으세요. 일본 VPN에 연결해야 하며 다운로드가 끝날 때까지 유지해야 합니다.</p></details><details><summary>취소·대기 목록은 다시 실행하면 어떻게 되나요?</summary><p>대기 상태로 복원되며 자동으로 시작하지 않습니다. ‘대기열 계속’을 누르면 저장한 위치와 옵션으로 받은 부분부터 이어받습니다. 실패한 영상도 재시도로 이어받을 수 있으며 라이브·구간 작업은 대상이 아닙니다. 필요 없는 대기 항목은 다운로드 목록에서 우클릭해 ‘목록에서 삭제’를 누르면 다시 복원하지 않으며, 기록과 영상 파일은 유지합니다. 주소 형태가 달라도 이미 받은 영상이면 다시 받을지 확인합니다.</p></details><details><summary>로그인이 필요한 영상도 받을 수 있나요?</summary><p>치지직 계정을 연결하면 받을 수 있습니다. 19세 영상은 본인·성인 인증된 네이버 계정이, 구독자 영상 등은 그 계정의 시청 권한이 필요합니다. 인증이나 시청 권한이 없는 영상은 받을 수 없습니다.</p></details><details><summary>치지직 계정은 어떻게 연결하나요?</summary><p>평소 브라우저에 Get cookies.txt LOCALLY를 설치하고 치지직에 로그인한 뒤 메인 화면 <code>https://chzzk.naver.com/</code>을 엽니다. 주소창 옆의 확장 프로그램 아이콘을 눌러 왼쪽 첫 번째 Export 버튼으로 <code>chzzk.naver.com_cookies.txt</code>를 저장하세요. 앱의 ‘설정 → 치지직 계정 → 쿠키 파일 가져오기’에서 저장에 동의하고 이 파일을 선택한 뒤 ‘가져오고 연결’을 누릅니다. 아이디·비밀번호 입력은 필요 없습니다.</p></details><details><summary>로그인 쿠키는 어디에 저장되나요?</summary><p>EXE 옆 <code>.auth</code> 폴더에 현재 Windows 사용자 계정에 묶어 암호화 저장합니다. 개발자나 별도 수집 서버로 전송하지 않으며, 인증 쿠키는 네이버·치지직 인증과 영상 조회에 전달됩니다. 다른 PC·Windows 계정에서는 쓸 수 없고, 쿠키가 만료되거나 네이버가 로그인을 해제하면 다시 가져와야 합니다. 로그아웃하면 현재 계정의 쿠키만 삭제합니다.</p></details><details><summary>여러 계정을 쓸 수 있나요?</summary><p>다른 계정의 쿠키를 가져오면 프로필로 추가되고, 같은 계정은 쿠키를 갱신합니다. 설정 위의 프로필 사진·이름을 눌러 계정을 전환하고, ‘새 계정 추가’로 연결 창을 바로 열 수 있습니다. 즐겨찾기와 순서는 계정마다 따로 유지하며, 로그아웃해도 목록은 남습니다.</p></details><details><summary>일시정지를 누르면 받던 영상도 멈추나요?</summary><p>대기열 일시정지는 새로운 영상의 시작을 멈춥니다. 진행 중인 영상은 계속 다운로드하며, 해당 영상의 취소 버튼으로 중단할 수 있습니다.</p></details><details><summary>기록을 정리하면 영상도 지워지나요?</summary><p>다운로드 기록에서 해당 항목과 미리보기 캐시, 그 작업이 보관한 미완성 다운로드 조각을 제거합니다. 저장 폴더의 완성된 영상 파일은 유지됩니다.</p></details></section>
 
     <section class="closing wrap" id="download" data-chapter><div><p class="eyebrow">READY WHEN YOU ARE.</p><h2>좋아하는 방송을,<br>오래 간직하세요.</h2></div><div class="closing-actions"><a class="button primary" href="https://github.com/deuxdoom/ChzzkDownloader/releases/latest" data-download><span aria-hidden="true">↓</span> 다운로드(.zip)</a><a class="button secondary" href="https://github.com/deuxdoom/ChzzkDownloader/releases/latest"><span class="github-icon" aria-hidden="true"></span>최신 릴리즈 확인 <span aria-hidden="true">↗</span></a></div></section>
   </main>

diff --git a/README.md b/README.md
@@ -46,7 +46,7 @@
 평소 브라우저에서 내보낸 쿠키로 치지직 계정을 연결하면 팔로잉 채널을 즐겨찾기로 가져오고, 시청 권한이 있는 19세 영상도 받을 수 있습니다.
 TVer는 일본 VPN에 연결한 상태에서 다운로드해야 합니다.
 
-**1.0.7 (2026-11-02)**에서 방송이 중간에 끊겨 다시보기가 두 개로 나뉜 경우, 치지직이 VOD 변환을 마치기 전에 뒷부분을 1080p로 받으면 `Initialization fragment found after media fragments` 오류가 나던 문제를 수정했습니다. 이렇게 이어진 녹화본처럼 시작 시각이 0이 아닌 영상은 화질 변환 없이 시작 시간을 0으로 맞춰 저장하므로, 다운로드 기록의 재생 시간도 실제 길이로 표시됩니다.
+**1.0.7 (2026-11-02)**에 중단된 다운로드 이어받기, 라이브 방송 녹화, 치지직 다시보기 채팅 저장, 구간 다운로드를 추가했습니다. 파일 이름·채널별 폴더·속도 제한을 설정하고, 즐겨찾기 채널의 새 영상 알림과 자동 다운로드를 사용할 수 있습니다. 채널 화면에는 보기·정렬과 영상·채팅 저장 배지를 추가하고, 중복 확인·저장 공간 확인·실패 안내·썸네일 캐시 관리도 개선했습니다. 자세한 내용은 [1.0.7 변경 기록](CHANGELOG.md#107---2026-11-02)에서 확인하세요.
 
 <a id="requirements"></a>
 
@@ -64,15 +64,24 @@ TVer는 일본 VPN에 연결한 상태에서 다운로드해야 합니다.
 ## ✨ 주요 기능
 
 - **다운로드**: 주소 붙여넣기·끌어놓기, ‘다중 다운로드’ 창에서 여러 주소를 한 줄씩 추가. 동시 영상 최대 4개·영상당 조각 최대 16개
-- **저장 설정**: 설정 화면에서 저장 위치·최고 화질 또는 해상도 상한·인코딩을 선택하고 다음 실행에도 유지
+- **저장 설정**: 저장 위치·화질·인코딩, 파일 이름 규칙(제목 / 날짜 + 제목 / 채널 + 제목 / 날짜 + 채널 + 제목), 채널별 폴더를 선택하고 다음 실행에도 유지. 날짜는 영상 게시일 기준
+- **속도 제한**: 영상 한 개당 1·2·5·10·20·50 MB/s 또는 제한 없음을 선택. 여러 영상을 받으면 합계는 동시 영상 수만큼 늘어날 수 있음
+- **이어받기·자동 재시도**: 취소·실패한 영상의 받은 부분을 보관하고 재시도·같은 주소 추가·재실행 후 대기열 재개 시 이어받기. 일시적인 연결 오류는 두 번까지 자동 재시도
+- **라이브 녹화**: 라이브 주소를 넣어 녹화하고 중지·연결 끊김 시 지금까지 받은 부분을 MP4로 저장. 녹화 크기·경과 시간·남은 공간으로 녹화 가능한 시간 표시
+- **구간만 받기**: 주소를 추가하기 전에 시작·끝 시각을 지정해 필요한 구간만 저장. 끝을 비우면 영상 끝까지, 재인코딩 없이 잘라 몇 초 차이가 날 수 있음
+- **치지직 다시보기 채팅 저장**: ‘받을 내용’에서 채팅만 또는 영상 + 채팅을 선택해 오프라인 HTML로 저장. 검색·사용자별 채팅·구독·후원·가림 상태를 확인하고, 닉네임을 바꿔도 같은 사용자 ID로 모아 보기
 - **완료 항목**: 이번 실행에서 완료한 영상은 다운로드 목록에서 재생하거나 더블클릭. ‘완료 항목 정리’로 숨겨도 기록과 영상은 유지
 - **대기 목록 복원·삭제**: 취소·대기·종료 중단 작업은 다시 실행하면 대기 상태로 복원. ‘대기열 계속’으로 시작하며, 필요 없는 대기 항목은 다운로드 목록에서 우클릭 → ‘목록에서 삭제’로 복원 없이 제거
-- **중복 다운로드 확인**: 완료 기록과 같은 영상 주소를 다시 넣으면 다시 다운로드할지 확인
-- **채널 즐겨찾기**: 채널명이나 주소로 검색해 저장하고, 저장한 카드를 드래그해 순서 변경. 채널 VOD를 썸네일·제목·날짜 카드로 보며 골라 받기. 연령 제한 영상은 썸네일 오른쪽 위의 19세 배지로 구분
+- **중복 다운로드 확인**: 주소 형태가 달라도 같은 영상이면 다시 다운로드할지 확인. 기록 화면의 최근 500개 밖에 있는 영상도 기억하며, 대기·진행 중인 영상은 중복 추가하지 않음
+- **채널 즐겨찾기**: 채널명이나 주소로 검색해 저장하고, 카드를 드래그해 순서 변경. 전체 영상·다시보기·업로드·클립과 최신순·인기순을 골라 영상 선택. 연령 제한은 19세 배지로 구분
+- **영상·채팅 저장 배지**: 채널 카드에 ‘받음’·‘채팅 받음’·‘영상·채팅 받음’을 구분해 표시. ‘받지 않은 영상만 선택’과 ‘선택한 영상 채팅 저장’ 제공
+- **즐겨찾기 새 영상 확인**: 설정에서 켜면 30분마다 확인해 ‘새 영상 N’ 배지와 트레이 알림 표시. 채널별 ‘새 영상 자동 다운로드’를 켜면 이미 받은 영상은 건너뛰고 새 영상만 대기열에 추가
 - **치지직 계정 연결**: 평소 브라우저에서 내보낸 cookies.txt로 연결. 아이디·비밀번호 입력 없이 로그인 쿠키만 Windows 암호화로 보관하며 다시 실행해도 유지. 본인·성인 인증된 계정의 시청 권한으로 19세 영상 다운로드
 - **팔로잉 자동 추가**: 저장된 계정의 팔로잉 채널을 로그인·앱 시작 시 즐겨찾기에 자동 추가. 기존 채널과 순서를 유지하고 중복 없이 병합하며, 설정에서 다시 가져오기 가능
 - **계정 프로필 전환**: 여러 계정의 쿠키를 저장하고 설정 위의 프로필 사진·계정 이름에서 전환. 계정마다 즐겨찾기와 순서를 따로 유지
 - **다운로드 기록**: 완료·실패·취소 작업을 따로 모아 다시 재생·재시도. 썸네일은 다시 열어도 유지
+- **실패 안내·저장 공간 확인**: 실패 원인과 다음 조치를 한국어로 안내하고 원문도 보관. 크기를 알 수 있는 영상은 다운로드 전 필요한 공간을 확인하고, 부족하면 전송 전에 안내
+- **썸네일 캐시 관리**: 설정에서 캐시 사용량 확인·비우기. 시작할 때 기록에 더 이상 없는 영상의 캐시 자동 정리
 - **작업 로그**: 목록 상단의 로그 버튼으로 열고 닫기. 카드 선택이나 로그 필터로 원하는 작업만 확인하며 로그를 열어도 입력창·버튼·카드가 좌우로 밀리지 않음
 - **MP4 저장·변환**: 원본 유지가 기본. 필요하면 CPU 또는 NVIDIA NVENC로 H.264(AVC)·H.265(HEVC) 변환. 변환이 실패하거나 취소돼도 원본 보존. 끊긴 방송의 이어진 녹화본처럼 시작 시각이 늦은 영상은 화질 변환 없이 0초부터 시작하게 저장
 - **트레이 실행**: 창을 닫아도 트레이에서 다운로드 계속, 대기열 일시정지·재개, 완료 알림
@@ -89,11 +98,20 @@ TVer는 일본 VPN에 연결한 상태에서 다운로드해야 합니다.
 1. 릴리스의 `ChzzkDownloader_v107.zip` 파일을 내려받아 압축을 풀고 `ChzzkDownloader.exe`를 실행합니다.
 2. 첫 실행에는 인터넷으로 필요한 영상 도구(FFmpeg·ffprobe, yt-dlp nightly)를 자동으로 받습니다. **창 하단의 상태와 진행 표시**로 준비 상황을 확인하세요. 준비가 끝나면 사이드바 맨 아래 **설정**에서 저장·다운로드, 치지직 계정, 영상 변환, 프로그램 동작, 업데이트 항목을 정합니다.
 3. 어떤 사이트의 영상 주소든 붙여넣고 **다운로드**를 누릅니다. 여러 영상을 한꺼번에 추가하고 싶을 경우 **다중 다운로드** 창에 한 줄씩 넣고 **다운로드 (개수)**를 누릅니다. 입력 순서대로 목록에 추가되며 설정한 동시 영상 수만큼 시작합니다.
-4. 채널 단위로 고르려면 **채널 즐겨찾기**에서 채널을 검색 저장한 뒤 카드를 눌러 영상을 선택합니다. 
+4. 채널 단위로 고르려면 **채널 즐겨찾기**에서 채널을 검색해 저장한 뒤 카드를 누릅니다. **전체 영상·다시보기·업로드·클립**, **최신순·인기순**을 고르고, **받지 않은 영상만 선택**으로 이미 받은 영상을 제외할 수 있습니다.
 5. 다운로드가 완료된 영상은 **다운로드 목록**에서 바로 재생 가능합니다. 이전 실행의 작업·실패·취소 항목은 **다운로드 기록**에서 확인합니다.
-6. 취소·대기·종료 중단 작업은 다음 실행에 대기로 복원됩니다. **대기열 계속**으로 재개하세요. 필요 없는 대기 항목은 **다운로드 목록에서 우클릭 → 목록에서 삭제**를 누릅니다. 삭제한 항목은 다시 대기로 복원하지 않고, 기록과 영상 파일은 유지합니다. 완료 기록과 같은 영상을 다시 추가하면 **다시 다운로드**할지 확인합니다.
+6. 취소·대기·종료 중단 작업은 다음 실행에 대기로 복원됩니다. **대기열 계속**으로 재개하면 보관한 부분부터 이어받습니다. 실패한 작업도 **재시도**로 이어받을 수 있습니다. 필요 없는 대기 항목은 **다운로드 목록에서 우클릭 → 목록에서 삭제**를 누릅니다. 기록과 완성된 영상은 유지하며, 보관한 미완성 조각은 기록에서 해당 작업을 지울 때 정리됩니다. 이미 받은 영상은 주소 형태가 달라도 **다시 다운로드**할지 확인합니다.
 7. 치지직 계정을 연결하려면 아래 **쿠키 파일 저장하기**를 따라 `chzzk.naver.com_cookies.txt`를 저장합니다. 앱의 **설정 → 치지직 계정 → 쿠키 파일 가져오기**에서 저장에 동의하고 이 파일을 선택한 뒤 **가져오고 연결**을 누릅니다. 로그인 확인 후 인증 쿠키 두 개만 암호화 저장하고 팔로잉 채널을 즐겨찾기에 추가합니다. 아이디·비밀번호 입력은 필요 없습니다.
 8. 다른 계정의 쿠키를 가져오면 새 프로필로 추가하고, 같은 계정은 쿠키를 갱신합니다. **설정 위의 프로필 사진·계정 이름**을 누르면 저장된 계정을 전환하고 **치지직 채널 열기·로그아웃·새 계정 추가**를 선택할 수 있습니다. 계정이 하나여도 같은 메뉴를 표시하며, **새 계정 추가**를 누르면 **브라우저 쿠키로 치지직 계정 연결** 창이 바로 열립니다. 저장에 동의한 뒤 다른 계정의 쿠키 파일을 선택해 연결하세요. 즐겨찾기와 순서는 계정마다 따로 보관하고 재실행해도 선택한 계정을 유지합니다. 사진이 없는 계정에는 기본 아이콘을 표시합니다.
+
+### 1.0.7의 새 기능 사용하기
+
+- **채팅 저장**: 다운로드 화면의 **받을 내용 → 채팅만 / 영상 + 채팅**을 선택한 뒤 치지직 다시보기 주소를 넣습니다. 채널 화면에서는 **선택한 영상 채팅 저장**을 누릅니다. 저장한 HTML을 브라우저에서 열고 닉네임을 누르면 그 사용자의 채팅만 볼 수 있으며, ↗는 그 사용자의 채널을 엽니다. 검색창에 채널 주소나 ID를 붙여 넣어도 찾을 수 있습니다.
+- **구간 다운로드**: **구간만 받기**를 켜고 시작·끝(예: `1:00:00` ~ `1:30:00`)을 입력한 뒤 주소를 추가합니다. 한 번 추가하면 체크가 풀립니다. 다중 주소에도 적용되며, 채널 화면에서 고른 영상에는 적용되지 않습니다. **영상 + 채팅**에서는 영상만 잘라 받고 채팅은 전체를 저장합니다.
+- **라이브 녹화**: 라이브 방송 주소를 넣고 다운로드를 시작합니다. 카드의 중지 버튼을 누르면 지금까지 녹화한 부분을 저장합니다. 라이브 녹화는 동시 다운로드 수에 포함되지 않으며, 재실행 복원·이어받기 대상이 아닙니다.
+- **파일 이름·폴더·속도**: **설정 → 저장 · 다운로드**에서 정합니다. 새로 추가한 작업부터 적용되며, 속도 제한은 라이브·구간 다운로드에는 적용되지 않을 수 있습니다.
+- **새 영상 알림·자동 다운로드**: **설정 → 프로그램 동작 → 즐겨찾기 채널의 새 영상을 30분마다 확인**을 켭니다(기본 꺼짐). 자동으로 받을 채널은 채널 화면에서 **새 영상 자동 다운로드**도 켜세요. 처음 확인한 시점의 기존 영상은 알리거나 자동으로 받지 않습니다.
+- **캐시 정리**: **설정 → 프로그램 동작 → 썸네일 캐시 → 캐시 비우기**에서 미리보기만 지울 수 있습니다. 기록과 저장 파일은 유지됩니다.
 
 ### 쿠키 파일 저장하기
 
@@ -112,11 +130,19 @@ TVer는 일본 VPN에 연결한 상태에서 다운로드해야 합니다.
 
 ## 📸 화면
 
-아래 화면은 1.0.3 배포본에서 캡처한 실제 화면입니다. 영상·진행 상태와 계정 이름·사진은 소개용 예시입니다.
+아래 화면은 **1.0.7 배포 EXE**에서 캡처한 실제 화면입니다. 영상 정보는 현재 공개 목록에서 가져왔고, 다운로드·녹화·저장 배지·새 영상 알림·제한 상태와 계정 이름·사진은 소개용 예시입니다. 실제 다운로드·녹화·계정 인증 결과를 뜻하지 않습니다.
+
+| 구간 다운로드·채팅 선택 | 라이브 녹화 |
+| --- | --- |
+| ![구간 시작·끝과 받을 내용에서 영상 + 채팅을 선택한 화면](docs/img/app-input.png) | ![라이브 녹화 크기·경과 시간·남은 공간 안내 예시](docs/img/app-live.png) |
 
 | 설정 | 채널 영상 |
 | --- | --- |
-| ![저장·다운로드, 치지직 계정, 영상 변환, 프로그램 동작, 업데이트로 구분한 설정](docs/img/app-settings.png) | ![썸네일로 영상을 고르는 채널 화면](docs/img/app-channel.png) |
+| ![파일 이름·채널별 폴더·속도 제한이 추가된 설정](docs/img/app-settings.png) | ![보기·정렬·영상과 채팅 저장 배지·선택한 영상 채팅 저장 버튼이 있는 채널 화면](docs/img/app-channel.png) |
+
+| 새 영상 확인·캐시 관리 | 채널 즐겨찾기 |
+| --- | --- |
+| ![새 영상 확인 설정과 썸네일 캐시 비우기](docs/img/app-settings-behavior.png) | ![저장 채널과 새 영상 개수 배지 예시](docs/img/app-favorites.png) |
 
 | 계정 전환 | 쿠키로 계정 연결 |
 | --- | --- |
@@ -138,6 +164,8 @@ TVer는 일본 VPN에 연결한 상태에서 다운로드해야 합니다.
 - **로그아웃·저장 정보 삭제**는 현재 계정의 쿠키만 지웁니다. 다른 저장 계정이 있으면 그 계정으로 전환하며, 즐겨찾기·영상은 유지합니다. 첫 연결 계정은 기존 공용 즐겨찾기를 이어받고, 이후 계정은 별도 목록을 사용합니다.
 - 쿠키 파일 가져오기는 `NID_AUT`·`NID_SES`만 저장하며, 파일의 다른 쿠키와 경로는 저장하지 않습니다. 저장한 쿠키 파일은 암호화되지 않고 프로그램이 수정·삭제하지 않으므로 연결 후 필요 없는 쿠키 파일은 직접 삭제하세요.
 - TVer 영상은 일본 VPN에 연결한 뒤 받아야 하며, 다운로드가 끝날 때까지 VPN 연결을 유지해야 합니다.
+- 채팅 저장은 **치지직 다시보기만** 지원하며 라이브·클립·다른 사이트의 채팅은 받을 수 없습니다. 구독·후원·가림 상태는 저장하지만 팔로우 여부는 제공되지 않습니다. 19세·구독자 전용 다시보기의 채팅도 연결한 계정의 시청 권한이 필요합니다.
+- 일반 영상의 저장 공간 확인은 크기를 알 수 있을 때만 동작합니다. 구간 다운로드는 앞뒤로 몇 초 차이가 날 수 있고 이어받기를 지원하지 않습니다.
 - **라이브 녹화는 방송이 끝나거나 중지할 때까지 계속 저장하므로 저장 공간을 넉넉히 확보하세요.** 치지직 1080p60 기준 시간당 약 3.8GB가 쌓여 10시간이면 약 38GB가 필요하고, 녹화를 마친 뒤 MP4로 정리하는 동안 같은 크기의 공간이 잠시 더 필요합니다. 녹화 중에는 남은 공간으로 몇 시간을 더 녹화할 수 있는지 표시되며, 남은 공간이 1GB 아래로 줄면 녹화를 멈추고 지금까지 녹화한 부분을 저장합니다(MP4로 정리할 공간이 없으면 `.ts` 파일로 남습니다). 녹화는 주소를 넣은 시점부터 시작하므로, 방송 전체가 필요하면 방송이 끝난 뒤 다시보기를 받으세요.
 - 창 크기는 화면과 Windows 배율에 맞춰 자동으로 정해집니다. 직접 크기를 조절하거나 최대화할 수 없으며, 작은 화면에서는 카드와 설정 내용을 스크롤로 볼 수 있습니다.
 - 받은 영상은 **개인 소장 용도** 로만 사용하고, 저작권과 플랫폼 이용 약관을 지켜 주세요.
@@ -151,6 +179,7 @@ TVer는 일본 VPN에 연결한 상태에서 다운로드해야 합니다.
 
 EXE 옆의 `settings.json`(설정), `history.json`(다운로드 기록), `favorites.json`(채널 즐겨찾기)을 백업하세요. `thumbnail-cache\`는 지워도 다시 만들어집니다. 업데이트는 이 파일들을 바꾸지 않습니다.
 계정을 연결했다면 `favorites-profiles\`(계정별 즐겨찾기) 폴더도 백업하세요. 계정에서 로그아웃해도 이 목록은 유지됩니다.
+이미 받은 영상 표시·중복 확인을 유지하려면 `download-index.json`, 새 영상 확인·자동 다운로드 설정을 유지하려면 `channel-watch.json`도 함께 백업하세요. 중단된 영상을 이어받으려면 원래 저장 위치의 `.incomplete\` 폴더와 기록을 함께 보관해야 합니다.
 
 로그인을 저장했다면 `.auth\naver-session.dat`도 같은 Windows 계정에서 유지할 수 있습니다. 다른 PC·Windows 계정에서는 이 파일을 쓸 수 없으므로 쿠키 파일을 다시 가져오세요. `.auth\runtime\`의 임시 쿠키는 백업하지 마세요.
 
